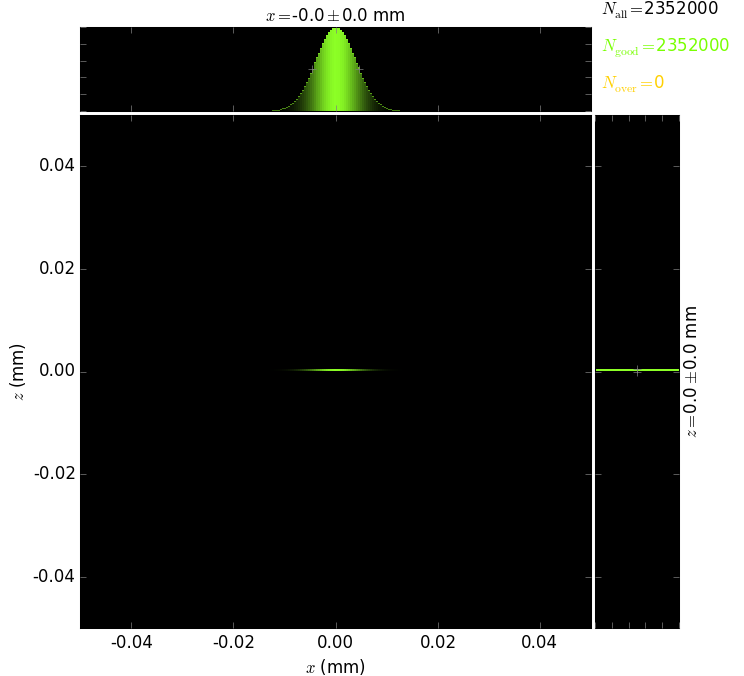
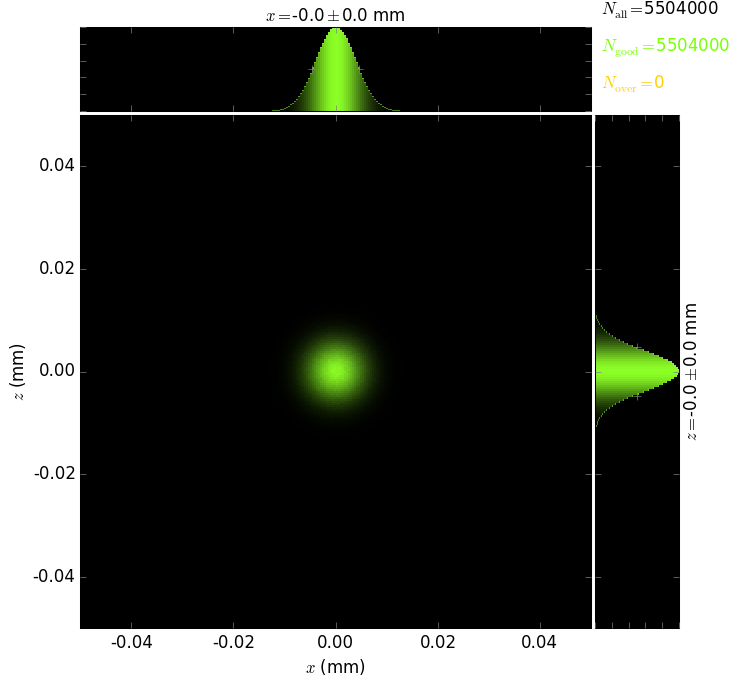
Circular source

diff --git a/SourceViewer.py b/SourceViewer.py
@@ -20,9 +20,9 @@ import xrt.backends.raycing.screens as rsc
 """ WELL DOCUMENTED PARAMETERS """
 repeats = 1e4   # liczba
 E0      = 9000  # [eV]
-min_d   = 1     # [mm] | source - screen distance
-step    = 19     # [mm] | screen step size
-N_      = 4    # number of step to take
+min_d   = 0     # [mm] | source - screen distance
+step    = 3     # [mm] | screen step size
+N_      = 20    # number of step to take
 
 xLimits = [-0.05, 0.05] # Plot limits
 zLimits = xLimits       # axis square
@@ -41,8 +41,8 @@ dxprime     = 1e-4
 # z-direction
 distz       = 'normal'
 dz          = 0.0
-distzprime  = 'annulus'
-dzprime     = 1e-3
+distzprime  = 'normal'
+dzprime     = 1e-4
 
 def build_beamline(nrays=1000):
     beamLine = raycing.BeamLine(height=bl_height)
